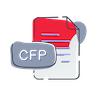
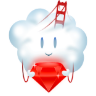
* ruby-lsp

diff --git a/app/frontend/styles/theme.css b/app/frontend/styles/theme.css
@@ -2,11 +2,11 @@
 @theme {
   --font-display: 'Martian Grotesk', 'sans-serif';
 
-  /* https://oklch.com/#0.6122,0.2313,22.61,100 */
-  --clr-primary-chroma: 0.2313;
-  --clr-primary-hue: 22.61;
+  /* https://oklch.com/#0.65,0.25,25,100 */
+  --clr-primary-chroma: 0.25;
+  --clr-primary-hue: 25;
 
-  /* https://oklch.com/#0.6804,0.034,261.69,100 */
-  --clr-secondary-chroma: 0.034;
-  --clr-secondary-hue: 261.69;
+  /* https://oklch.com/#0.65,0.17,250,100 */
+  --clr-secondary-chroma: 0.17;
+  --clr-secondary-hue: 250;
 }